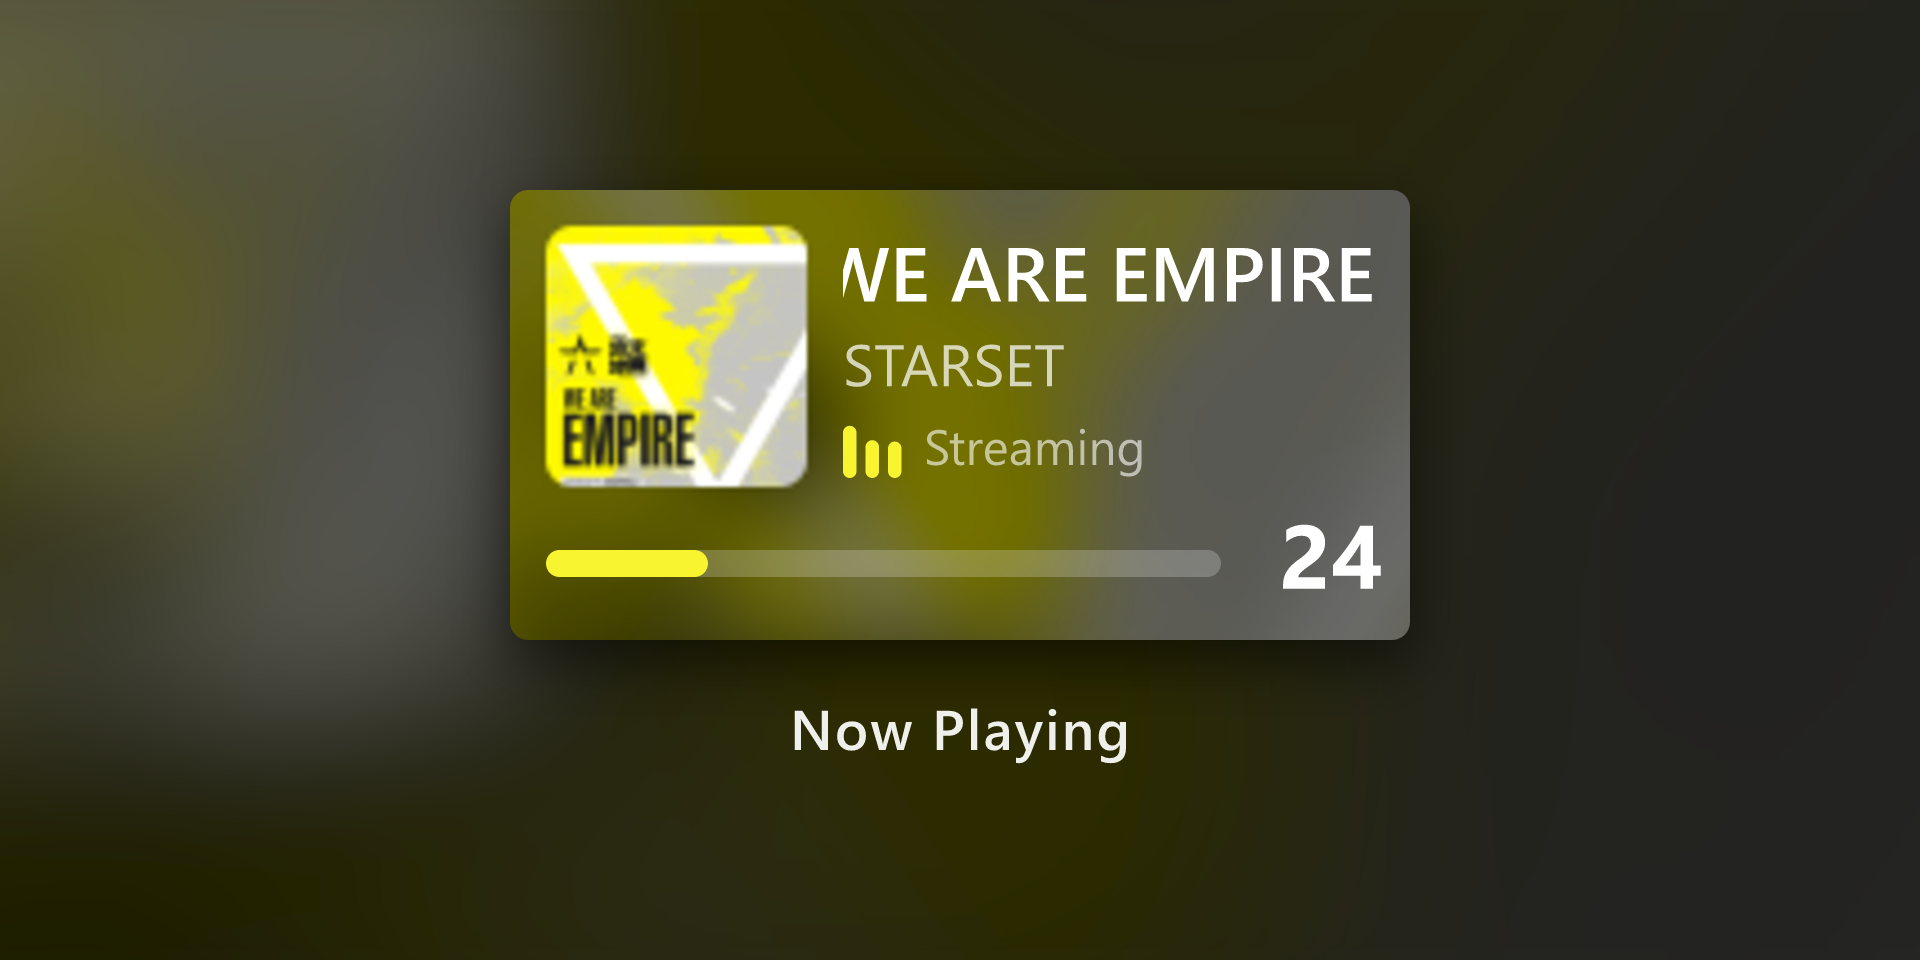
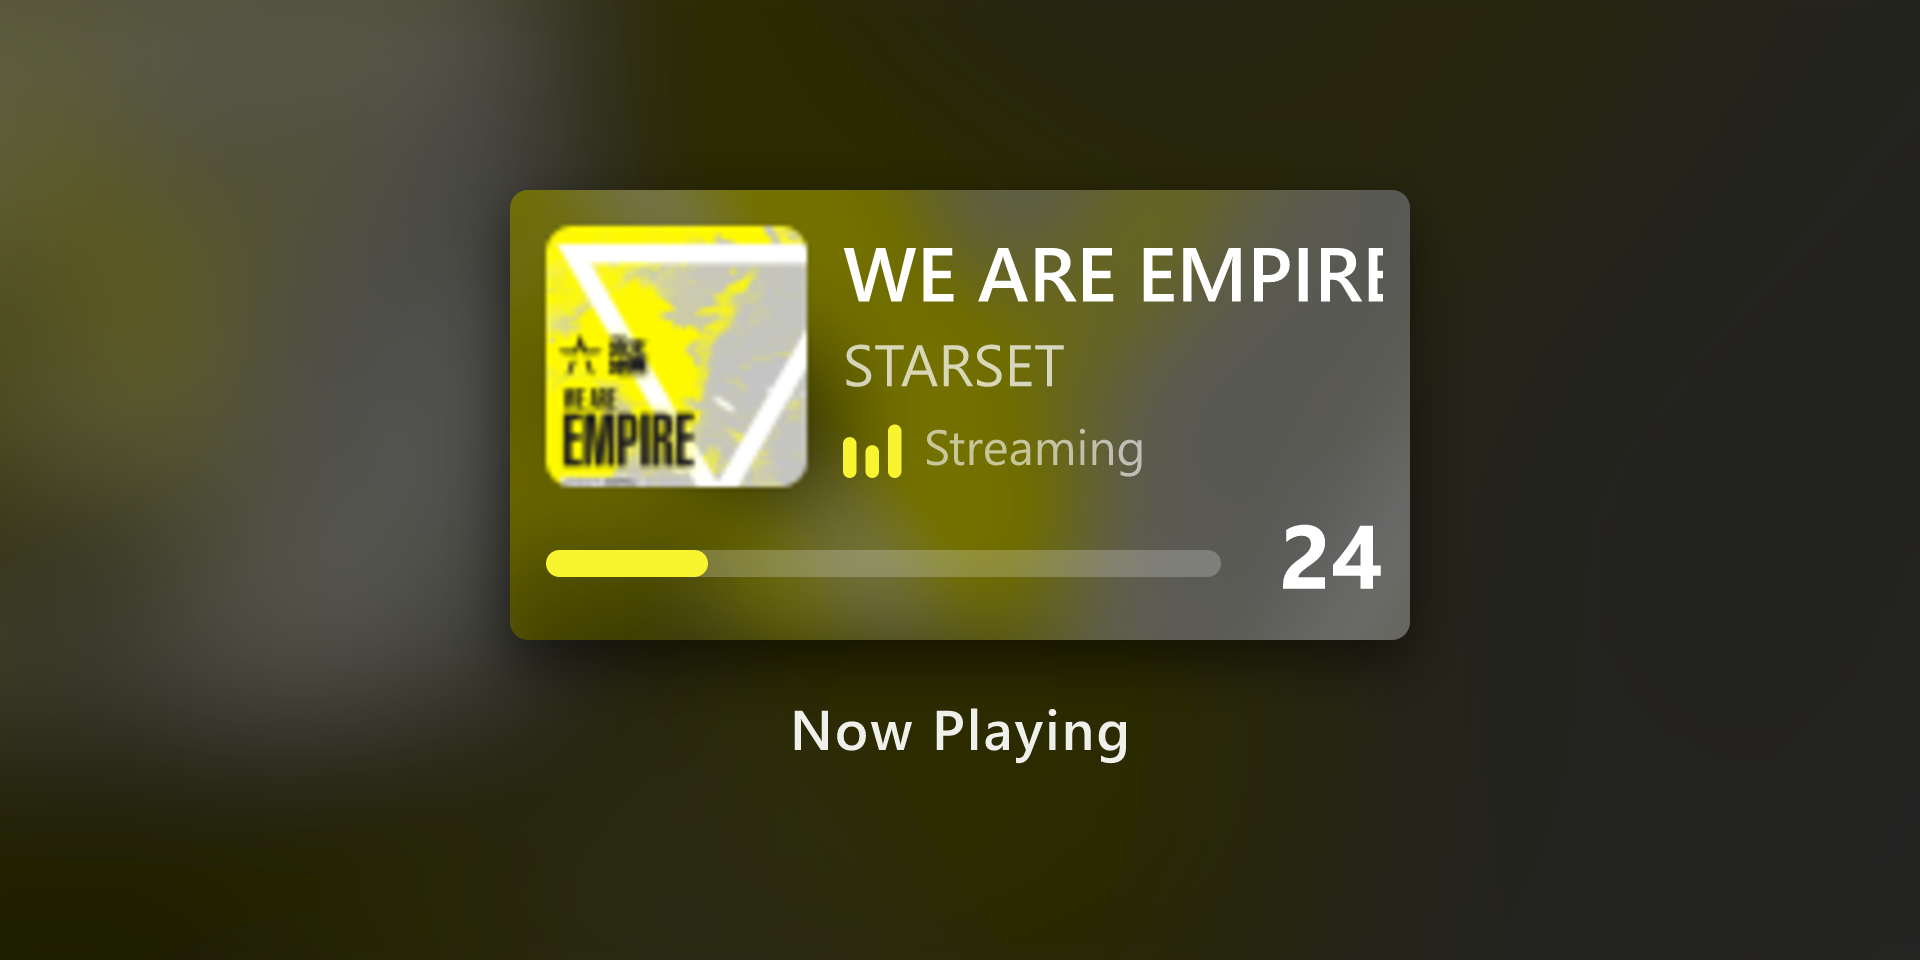
docs: English-only Marketplace gallery, paused shot, art-ownership checklist item

Changed region(s): [[0.4375, 0.25, 0.7188, 0.3125], [0.4375, 0.4375, 0.4688, 0.4688]]

diff --git a/docs/marketplace.md b/docs/marketplace.md
@@ -59,29 +59,30 @@ The README images in `docs/images/` are 600 x 300 px (the strip at 3x), so they 
 
 | File (1920 x 960) | Visible text | Use |
 |---|---|---|
-| `docs/images/marketplace/hero.png` | Title "WE ARE EMPIRE", artist "STARSET", "Streaming", volume "24", caption "Now Playing" | Thumbnail and Gallery 1 |
+| `docs/images/marketplace/hero.png` | Title "WE ARE EMPIRE" (as whole as the scroll allows: the title is a touch wider than its window, so the last E is trimmed), artist "STARSET", "Streaming", volume "24", caption "Now Playing" | Thumbnail and Gallery 1 |
 | `docs/images/marketplace/takeover.png` | "VOLUME", "WE ARE EMPIRE", "32", caption "Volume" | Gallery 2 |
 | `docs/images/marketplace/tracks.png` | "WE ARE EMP" (title scrolling), "STARSET", "Streaming", caption "Track skip" | Gallery 3 |
-| `docs/images/marketplace/cjk.png` | Chinese title, "Metal Scar Radio", "Streaming", "24", caption "Any language" | Gallery 4 |
+| `docs/images/marketplace/paused.png` | "WE ARE EMPIRE", "STARSET", "Streaming", pause glyph, "32", caption "Pause / play" | Gallery 4 |
+| `docs/images/marketplace/cjk.png` | Chinese title, "Metal Scar Radio", "Streaming", "24", caption "Any language" | **Optional, probably leave out:** Elgato says text in gallery images must be English, and this one shows a Chinese title and CJK cover art. Use it only if the form accepts it (it shows the real CJK glyph support); the other four are English. |
 
-None of them shows a device, machine or room name, a Home Assistant or Elgato logo, or any other third-party branding. The owner's hardware photo (`docs/images/hero.jpg`, EXIF stripped), if one is added later, could replace the thumbnail.
+The images show no device, machine or room name and no Home Assistant or Elgato logo. They do show **real album artwork as the plugin displays it** (the cover art of the playing track), which is third-party artwork: the owner must confirm this is acceptable under Elgato's "images must be ones you own" rule before submitting (see the checklist), or else replace the images with the procedural renders from `npm run screenshots`, which use generated art. The owner's hardware photo (`docs/images/hero.jpg`, EXIF stripped), if one is added later, could replace the thumbnail.
 
 The 600 x 300 README images map to the same scenes:
 
 | File (600 x 300) | What it shows | Use |
 |---|---|---|
-| `docs/images/hero.png` | Rest view, the README hero (the same frame as `rest.png`) | README; composed into the thumbnail above |
+| `docs/images/hero.png` | Rest view with the title at its start position, the README hero (the same frame as the thumbnail above; `rest.png` is a different frame of the same scroll) | README; composed into the thumbnail above |
 | `docs/images/rest.png` | Rest view, title scrolling, the Streaming source label | README only |
 | `docs/images/takeover.png` | Volume takeover over a blurred cover | README; composed into Gallery 2 |
 | `docs/images/tracks.png` | Tracks mode, forward chevrons flashing | README; composed into Gallery 3 |
-| `docs/images/paused.png` | Paused, pause glyph in place of the play bars | README; an optional extra if another gallery image is wanted |
-| `docs/images/cjk.png` | A Chinese title with real glyphs | README; composed into Gallery 4 |
+| `docs/images/paused.png` | Paused, pause glyph in place of the play bars | README; composed into Gallery 4 |
+| `docs/images/cjk.png` | A Chinese title with real glyphs | README; the optional (non-English) gallery image |
 | `docs/images/no-art.png` | No cover art: gradient and placeholder | README; an optional extra |
 | `docs/images/spindle.gif` | The title scrolling, then a volume takeover that fades back | Source for an MP4 (1920 x 1080) if a video is wanted; the Marketplace takes MP4, not GIF |
 
 Elgato also says products that need hardware or paid-service integrations must include a demo video showing the plugin fully working. Spindle needs a Stream Deck+ and a Home Assistant server, so plan a short MP4 of the real deck (1920 x 1080, 50 MB or less) with a 1920 x 960 thumbnail (`docs/images/marketplace/hero.png` can serve). **Recording the demo video is the owner's job** (see the checklist below); `spindle.gif` is only a reference for the scrolling-then-takeover sequence. Check today whether it is mandatory for this plugin.
 
-No Home Assistant logo, Elgato logo or other third-party branding goes in any image (spec section 13, item 6).
+No Home Assistant logo, Elgato logo or other branding goes in any image (spec section 13, item 6). The one third-party element is the album artwork the plugin shows, covered in the checklist.
 
 ## Check today's Marketplace requirements
 
@@ -97,7 +98,8 @@ No Home Assistant logo, Elgato logo or other third-party branding goes in any im
 - [ ] Description length limit and release-notes field, as the form shows them.
 - [ ] Demo-video requirement for hardware plugins, as the form shows it.
 - [ ] **Record the demo video (owner):** a short MP4, 1920 x 1080, 50 MB or less, filmed on the real Stream Deck+ showing the plugin fully working: now playing with a scrolling title, turning the dial (volume takeover), pressing to switch to tracks mode and skipping a track, and tapping the strip to play or pause. No device, room, account or Home Assistant names on screen, and no third-party logos. Upload it to the gallery, with `docs/images/marketplace/hero.png` as its 1920 x 960 thumbnail.
-- [ ] Gallery: upload the four PNGs in `docs/images/marketplace/` (the table above says which is the thumbnail), and look at each one in the form preview.
+- [ ] Gallery: upload the four English PNGs in `docs/images/marketplace/` (hero, takeover, tracks, paused; the table above says which is the thumbnail), leave out `cjk.png` unless the form accepts non-English text, and look at each one in the form preview.
+- [ ] **Album-art ownership (owner):** the gallery images and the demo video show real album artwork as displayed by the plugin. Confirm this is acceptable under Elgato's "images must be ones you own" rule before submitting. If it is not, replace the gallery with the procedural renders from `npm run screenshots` (generated art, nothing third-party), and film the video with a track whose artwork you own or with no artwork shown.
 - [ ] Category list: Music / Audio is still offered. If it isn't, pick the nearest one and record it here.
 - [ ] Guidelines that may affect Spindle, as read on 2026-10-15 (decide each one before submitting):
   - The plugin guidelines ask for **between 2 and 30 actions**. Spindle deliberately ships **one** purpose-built dial action (**Now Playing**) in v1, so expect to explain it (see Reviewer notes above). Check whether review enforces the range.
